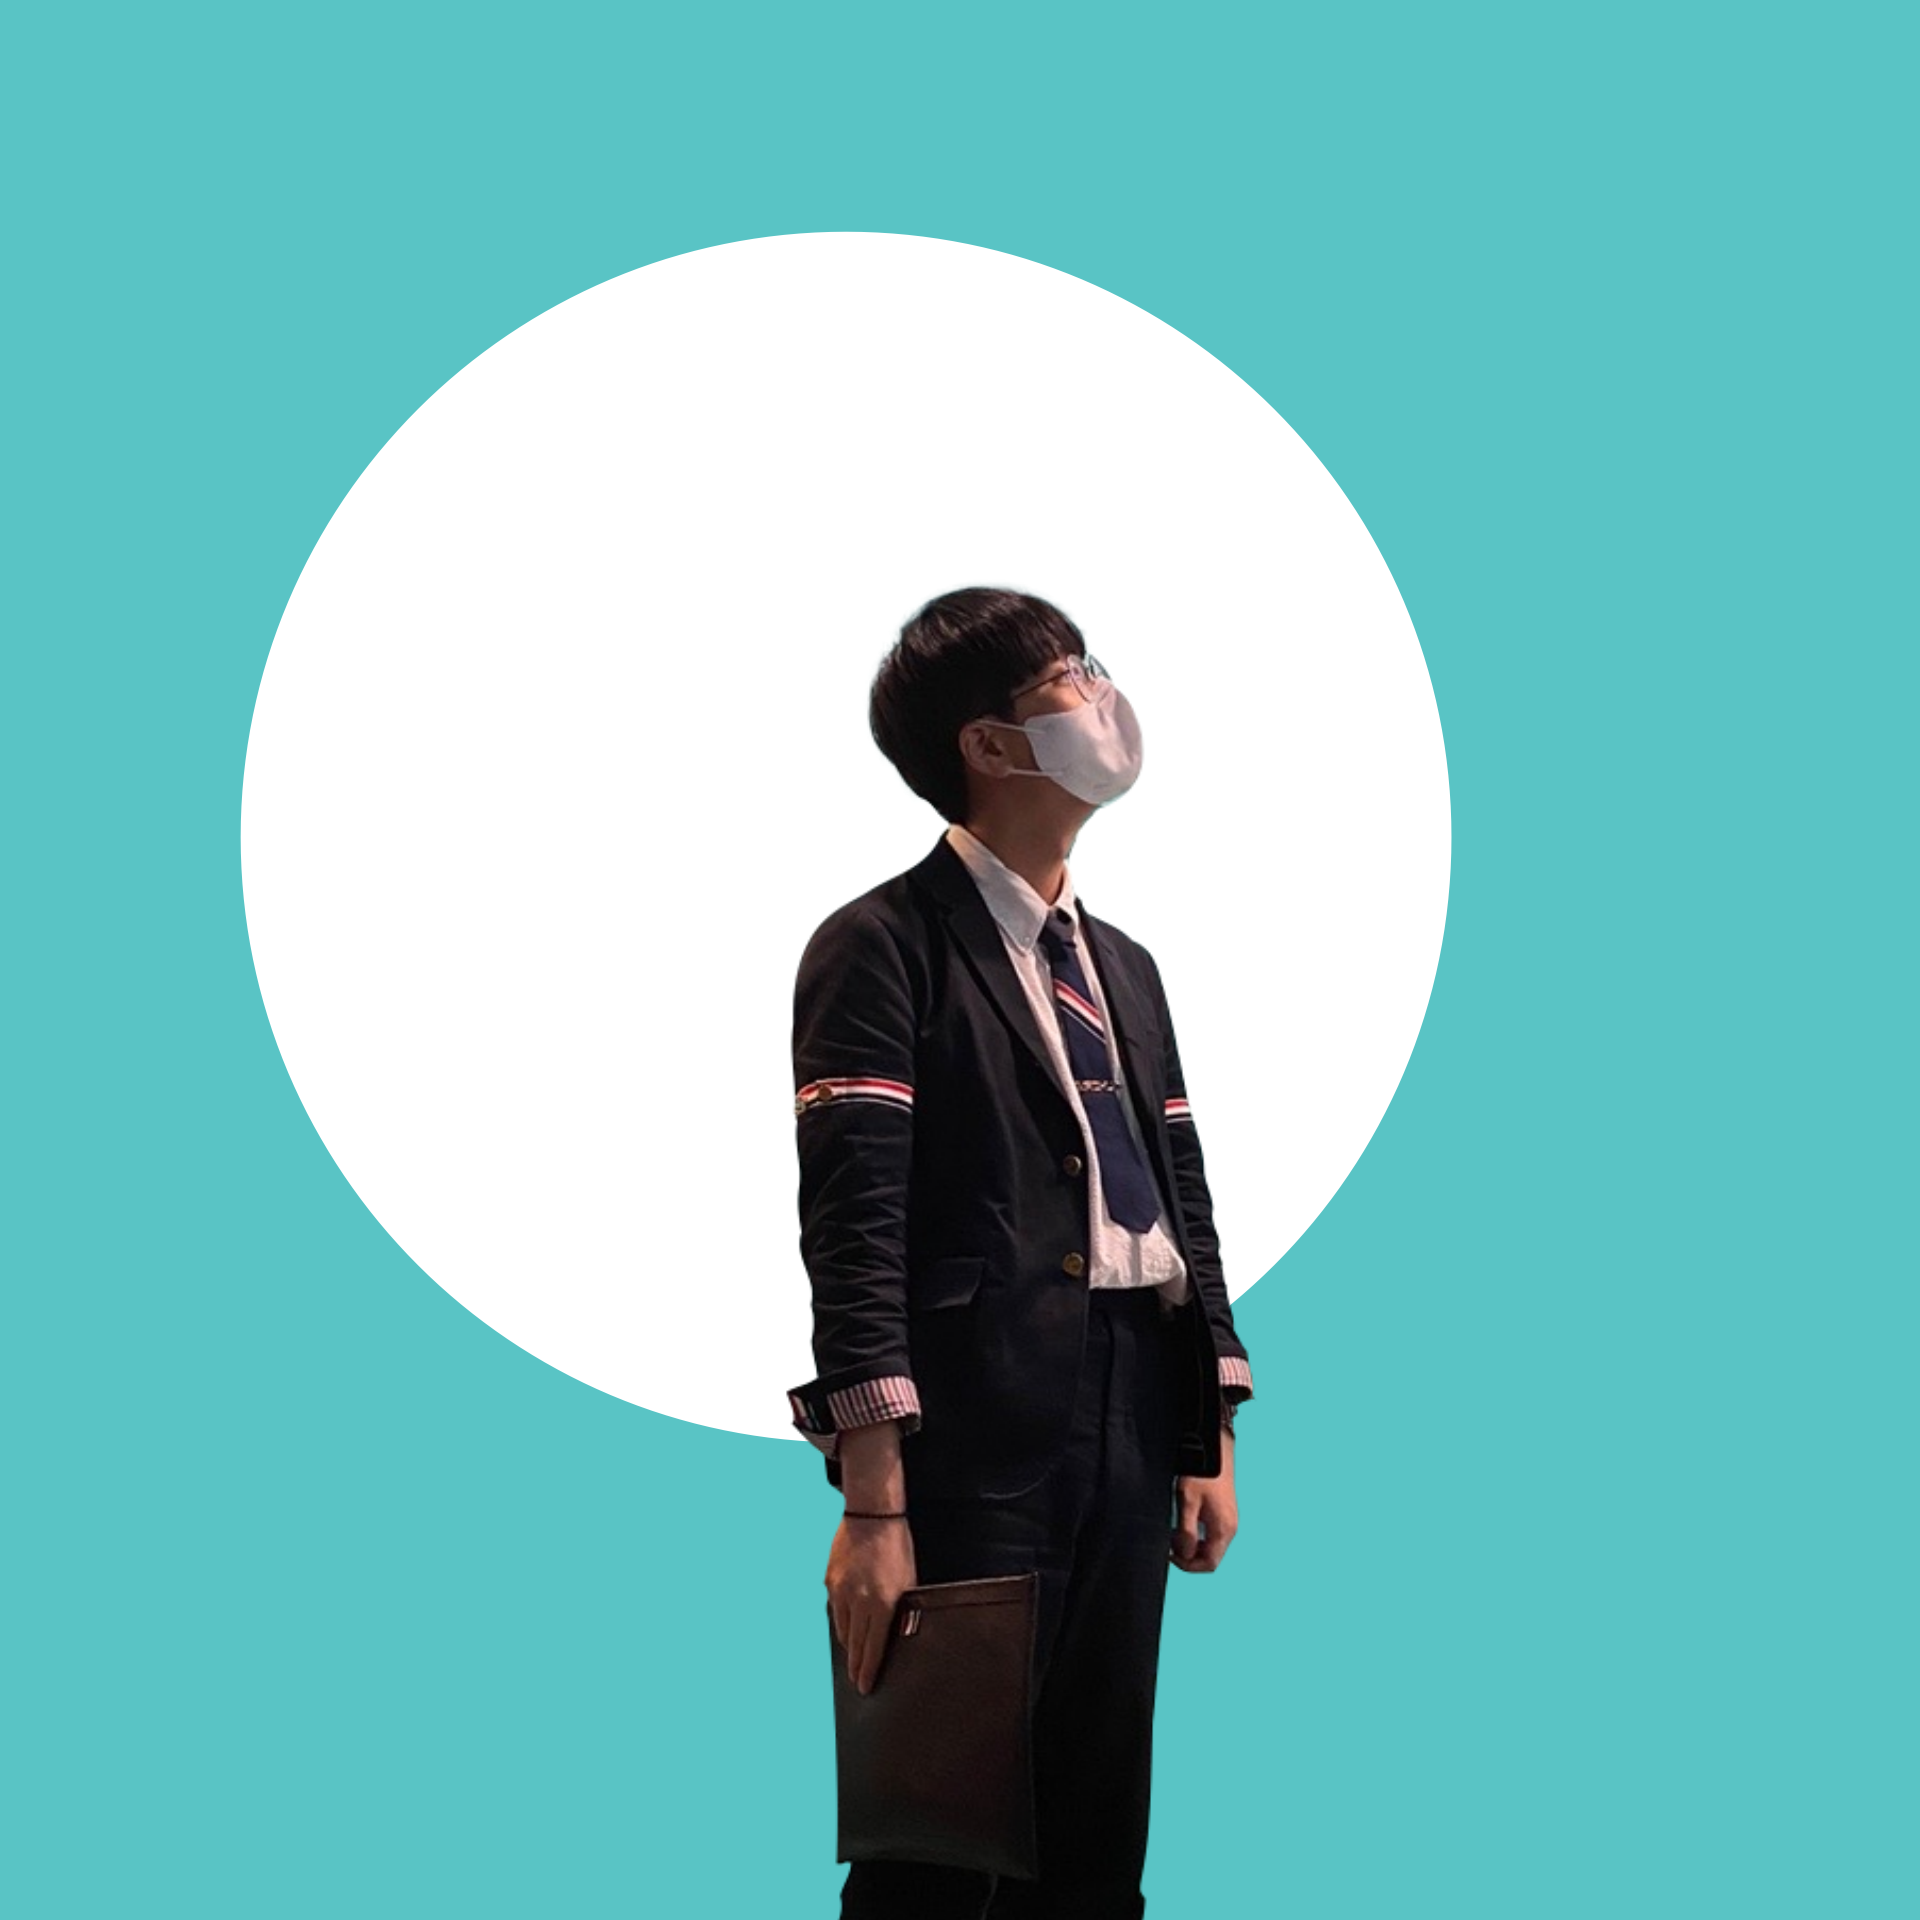
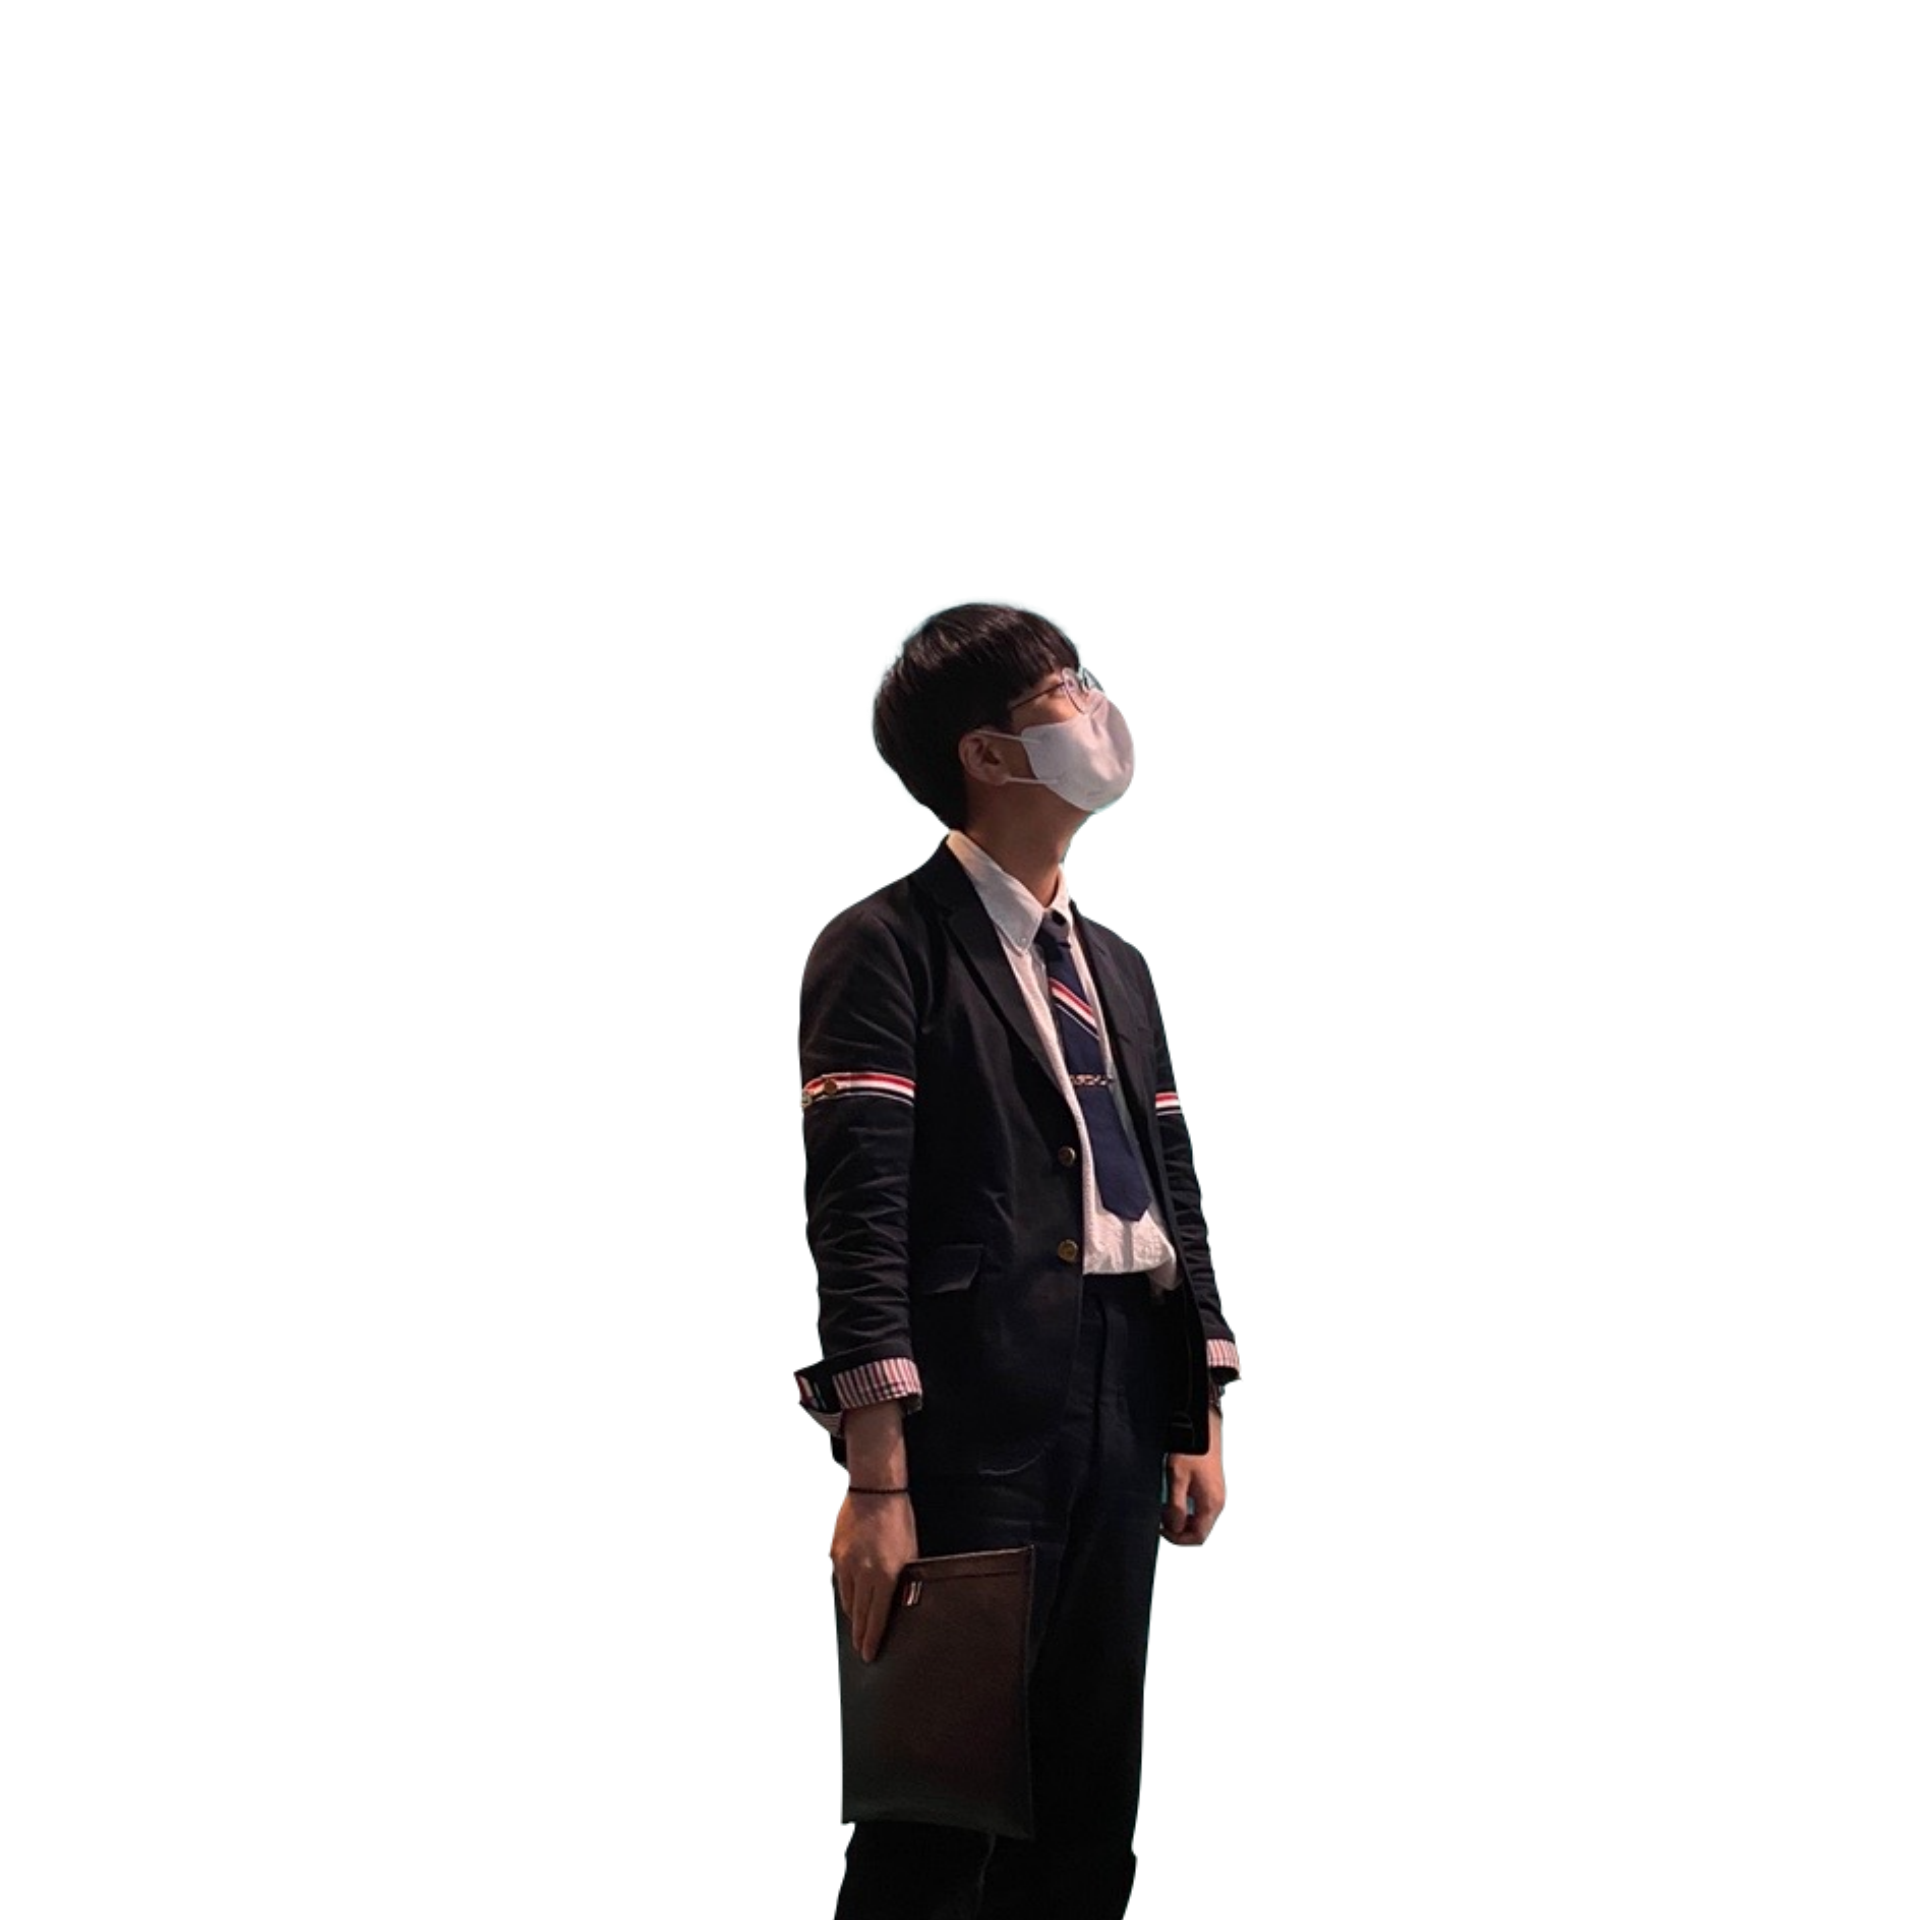
구성 개선

diff --git a/pages/index.tsx b/pages/index.tsx
@@ -7,6 +7,7 @@ import { GreyText } from '../components/GreyText';
 import { Layout } from '../components/Layout';
 import { MainTitle } from '../components/MainTitle';
 import { MainTitleSection } from '../components/MainTitleSection';
+import { MainTitleSectionContainer } from '../components/MainTitleSectionContainer';
 import { Paragraph } from '../components/Paragraph';
 import { Section } from '../components/Section';
 import { SkillItem } from '../components/SkillItem';
@@ -16,13 +17,21 @@ import { SubTitle } from '../components/SubTitle';
 const Page: NextPage = () => {
   return (
     <Layout>
-      <MainTitleSection>
-        <MainTitle>
-          <span className="job">소프트웨어 엔지니어,</span>
-          <br />
-          <span className="name">황승현.</span>
-        </MainTitle>
-      </MainTitleSection>
+      <MainTitleSectionContainer>
+        <MainTitleSection>
+          <MainTitle>
+            <span className="job">소프트웨어 엔지니어,</span>
+            <br />
+            <span className="name">황승현.</span>
+          </MainTitle>
+        </MainTitleSection>
+      </MainTitleSectionContainer>
+
+      <FadeInOnSlide>
+        <Container style={{ marginBottom: 300, marginTop: '70vh' }}>
+          <SubTitle>저는...</SubTitle>
+        </Container>
+      </FadeInOnSlide>
 
       <FadeInOnSlide>
         <Section>
@@ -72,16 +81,18 @@ const Page: NextPage = () => {
       </FadeInOnSlide>
 
       <FadeInOnSlide>
+        <Container style={{ marginBottom: 300, marginTop: 300 }}>
+          <SubTitle>프로젝트들...</SubTitle>
+        </Container>
+      </FadeInOnSlide>
+
+      <FadeInOnSlide>
         <Section>
           <Container>
             <SubTitle>
               <GreyText>에코블로그</GreyText>
               <br />
-              간편한
-              <br />
-              결제 시스템
-              <br />
-              구축.
+              간편한 결제 시스템 구축.
             </SubTitle>
           </Container>
 
@@ -90,6 +101,12 @@ const Page: NextPage = () => {
             도입과 함께 대대적 리뉴얼 작업을 하였습니다. 마케팅을 위한
             인플루언서와 마케터의
           </Paragraph>
+
+          <Container>
+            <SkillItem>PHP</SkillItem>
+            <SkillItem>MySQL</SkillItem>
+            <SkillItem>TossPayments</SkillItem>
+          </Container>
         </Section>
       </FadeInOnSlide>
 
@@ -98,12 +115,7 @@ const Page: NextPage = () => {
           <Container>
             <SubTitle>
               <GreyText>Culture Atlas</GreyText>
-              <br />
-              약 3만건의
-              <br />
-              데이터를
-              <br />
-              담은 그래픽.
+              <br />약 3만건의 데이터를 담은 그래픽.
             </SubTitle>
           </Container>
 
@@ -113,6 +125,14 @@ const Page: NextPage = () => {
             id vitae repellendus cum quisquam cupiditate quam maiores labore ea
             dolorum. Dolore.
           </Paragraph>
+
+          <Container>
+            <SkillItem>React</SkillItem>
+            <SkillItem>NextJS</SkillItem>
+            <SkillItem>Data Preprocessing</SkillItem>
+            <SkillItem>SQLite</SkillItem>
+            <SkillItem>TypeORM</SkillItem>
+          </Container>
         </Section>
       </FadeInOnSlide>
 
@@ -122,13 +142,7 @@ const Page: NextPage = () => {
             <SubTitle>
               <GreyText>카드파라</GreyText>
               <br />
-              복잡한
-              <br />
-              재고관리
-              <br />
-              클릭으로
-              <br />
-              해결.
+              복잡한 재고관리 클릭으로 해결.
             </SubTitle>
           </Container>
 
@@ -138,6 +152,42 @@ const Page: NextPage = () => {
             id vitae repellendus cum quisquam cupiditate quam maiores labore ea
             dolorum. Dolore.
           </Paragraph>
+
+          <Container>
+            <SkillItem>React</SkillItem>
+            <SkillItem>NextJS</SkillItem>
+            <SkillItem>Web Crawling</SkillItem>
+            <SkillItem>MySQL</SkillItem>
+            <SkillItem>TypeORM</SkillItem>
+            <SkillItem>SWR</SkillItem>
+          </Container>
+        </Section>
+      </FadeInOnSlide>
+
+      <FadeInOnSlide>
+        <Container style={{ marginBottom: 300, marginTop: 300 }}>
+          <SubTitle>그래서...</SubTitle>
+        </Container>
+      </FadeInOnSlide>
+
+      <FadeInOnSlide>
+        <Section style={{ marginBottom: 150 }}>
+          <Container>
+            <SubTitle>당신이 원하는 모든 것을 만들어 드립니다.</SubTitle>
+          </Container>
+
+          <Paragraph>
+            Lorem ipsum, dolor sit amet consectetur adipisicing elit. Numquam
+            molestiae quos beatae. Dicta recusandae quaerat laudantium eligendi
+            magnam ipsam aliquam at placeat nihil, facilis eveniet debitis
+            dolores, repudiandae quod sed?
+          </Paragraph>
+
+          <Container>
+            <SkillItem>Email: dev@hsh.kr</SkillItem>
+            <br />
+            <SkillItem>Phone: 010-6379-0084</SkillItem>
+          </Container>
         </Section>
       </FadeInOnSlide>
     </Layout>

diff --git a/components/MainTitleSection.tsx b/components/MainTitleSection.tsx
@@ -1,15 +1,13 @@
 import styled from 'styled-components';
 
 export const MainTitleSection = styled.section`
-  padding: 1rem;
-  padding-top: 10vh;
-  padding-bottom: 0;
-  min-height: 90vh;
-  margin-bottom: 6rem;
+  height: 100vh;
+  width: 90%;
+  max-width: 1500px;
+  margin: auto;
 
-  background-color: #59c4c5;
   background-image: url('/images/asher.png');
-  background-size: 100vmin 100vmin;
+  background-size: auto 80vmin;
   background-repeat: no-repeat;
   background-position: right bottom;
 `;

diff --git a/components/MainTitle.tsx b/components/MainTitle.tsx
@@ -1,8 +1,11 @@
 import styled from 'styled-components';
 
 export const MainTitle = styled.h1`
+  position: sticky;
+  top: 3rem;
   padding-left: 1rem;
   font-size: 3rem;
+  margin: 0;
 
   span {
     display: inline-block;
@@ -22,6 +25,7 @@ export const MainTitle = styled.h1`
     padding-right: 4rem;
     color: #000;
     background-color: #fff;
-    font-size: 4rem;
+    font-size: 15vmin;
+    margin-bottom: 0;
   }
 `;

diff --git a/components/SubTitle.tsx b/components/SubTitle.tsx
@@ -6,4 +6,8 @@ export const SubTitle = styled.h2`
   ${maxWidthWithAutoMargin}
   font-size: 56px;
   margin: 1rem auto;
+  width: 50%;
+  min-width: 300px;
+  margin-left: 0;
+  word-break: keep-all;
 `;

diff --git a/components/MainTitleSectionContainer.tsx b/components/MainTitleSectionContainer.tsx
@@ -1,0 +1,7 @@
+import styled from 'styled-components';
+
+export const MainTitleSectionContainer = styled.section`
+  width: 100vw;
+  background-color: #111;
+  margin-bottom: 6rem;
+`;
